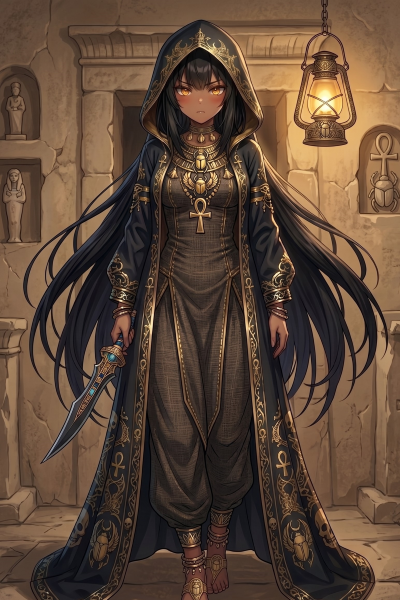
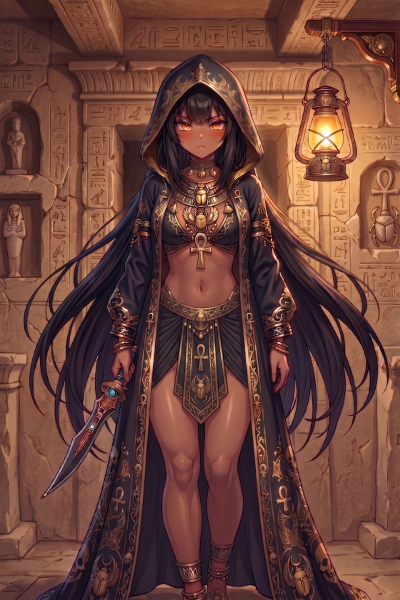
5/3 新キャラ追加 大二郎

diff --git a/src/utils/constants/cards.js b/src/utils/constants/cards.js
@@ -12,7 +12,7 @@ export const CARD_MASTER = [
     { id: 'scorpion', name: '黒サソリ', rarity: 1, power: 3, skill: 'deadly', voiceCategory: 'insect', flavor: '夜の砂漠に潜む漆黒の巨蠍。その尾から放たれる猛毒は対象を一瞬で絶命させる。' },
     { id: 'airship', name: 'セレスタリアのサルベージ船', rarity: 1, power: 4, skill: 'salvage', skillValue: 1, voiceCategory: 'machine_old', flavor: '空飛ぶ巨大な飛行船。その甲板には、忘れ去られた過去の遺物が山のように積まれている。' },
     { id: 'leech', name: '巨大ヒル', rarity: 1, power: 4, skill: 'absorb', voiceCategory: 'snake', flavor: '湿った泥濘に潜む貪欲なる顎。犠牲者の血肉をすする不快な音だけが響き渡る。' },
-    { id: 'fighter', name: 'アリーナの新入り', rarity: 1, power: 4, skills: [{ id: 'growth', value: 1 }], voiceCategory: 'human_male_warrior', flavor: '観衆の喧騒に胸を高鳴らせる、未完の闘士。無骨なセスタスには、頂点を目指す熱意と、己の拳のみで道を切り拓く覚悟が宿っている。' },
+    { id: 'fighter', name: 'アリーナの新入り', rarity: 1, power: 4, skills: [{ id: 'growth', value: 1 }], voiceCategory: 'human_male_ikemen', flavor: '観衆の喧騒に胸を高鳴らせる、未完の闘士。無骨なセスタスには、頂点を目指す熱意と、己の拳のみで道を切り拓く覚悟が宿っている。' },
     { id: 'titan', name: '旧式タイタン', rarity: 1, power: 8, skill: 'growth', skillValue: -2, voiceCategory: 'machine_old', flavor: '古代文明の造兵兵器。旧式ながらもその重厚な装甲は今なお健在である。' },
     { id: 'mantis', name: '旧式マンティス', rarity: 1, power: 3, skills: [{ id: 'quick' }, { id: 'growth', value: -2 }], voiceCategory: 'machine_old', flavor: '旧式の巨大なカマキリのロボット。鋭い鎌で獲物を伏せるが、過負荷による出力低下が激しい。' },
     { id: 'armsuits', name: '強化外骨格', rarity: 1, power: 2, skills: [{ id: 'equip' }, { id: 'sturdy' }], voiceCategory: 'machine_new', flavor: '強固な鋼鉄の装甲を纏った者は、戦場において難攻不落の城塞と化す。例え操縦者が倒れようとも、内蔵されたAIが稼働を続け、その任務を全うするだろう。' },

diff --git a/src/hooks/engine.js b/src/hooks/engine.js
@@ -1913,6 +1913,9 @@ export function applySingleCombat(state, attackerSide, l, events = []) {
     let dC_counter = originalTarget;
     // 防御（および拘束・待機）状態でなく、位相が一致している場合のみ反撃が発生
     let dP = (dC_counter && !hasSkill(dC_counter, 'defender') && !(dC_counter.stunTurns > 0)) ? (Number(dC_counter.currentPower ?? dC_counter.power ?? 0) || 0) : 0;
+    
+    // 貫通計算用に防御側の元パワーを保持しておく（防御の有無に関わらずその時点のパワーを参照）
+    let originalTargetPower = originalTarget ? (Number(originalTarget.currentPower ?? originalTarget.power ?? 0) || 0) : 0;
 
     // 反撃ダメージを受けるカード（攻撃者自身、またはその隣の守護）
     const aC_defend = atkBoard[aLane];
@@ -2184,7 +2187,7 @@ export function applySingleCombat(state, attackerSide, l, events = []) {
 
         if (hasSkill(aC, 'pierce')) {
             let effectiveAP = hasSkill(aC, 'double_strike') ? aP * 2 : aP;
-            let pDmg = Math.max(0, effectiveAP - dP);
+            let pDmg = Math.max(0, effectiveAP - originalTargetPower);
             if (pDmg > 0) {
                 defHP -= pDmg;
                 events.push({ type: 'damage_player', side: defSide, amount: pDmg, source: 'pierce' });
